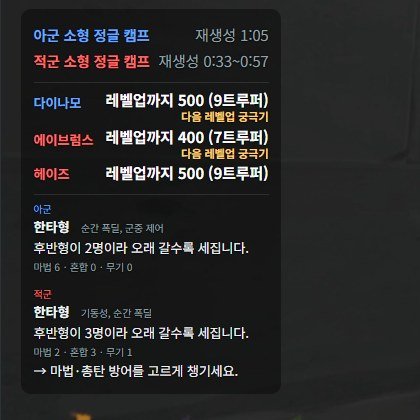
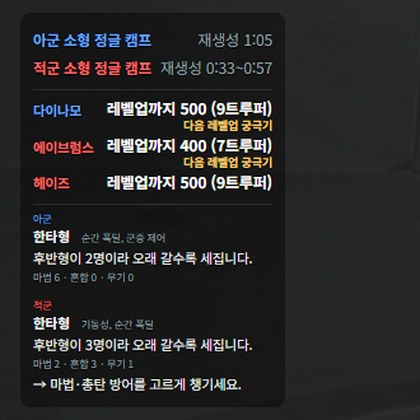
Overlay screenshots in each language (img/en, img/zh, img/ru); names and match number blurred

Changed region(s): [[0.0619, 0.0619, 0.65, 0.4643], [0.0619, 0.4024, 0.619, 0.9286], [0.1548, 0.9595, 0.2167, 1.0]]

diff --git a/guide/lib/site-lang.js b/guide/lib/site-lang.js
@@ -44,6 +44,9 @@
     for (const e of document.querySelectorAll('[data-t]')) if (text(e.dataset.t) != null) e.innerHTML = text(e.dataset.t);
     for (const e of document.querySelectorAll('[data-t-alt]')) if (text(e.dataset.tAlt) != null) e.alt = text(e.dataset.tAlt);
     for (const e of document.querySelectorAll('[data-t-label]')) if (text(e.dataset.tLabel) != null) e.setAttribute('aria-label', text(e.dataset.tLabel));
+    // The overlay screenshots in this language: img/<lang>/ beside the Korean ones in img/.
+    for (const e of document.querySelectorAll('img[src^="img/overlay-"]')) e.src = 'img/' + lang + '/' + e.getAttribute('src').slice(4);
+    for (const e of document.querySelectorAll('a[href^="img/overlay-"]')) e.href = 'img/' + lang + '/' + e.getAttribute('href').slice(4);
     const key = document.body.dataset.title,
       title = text('title.' + key),
       desc = text('desc.' + key);
